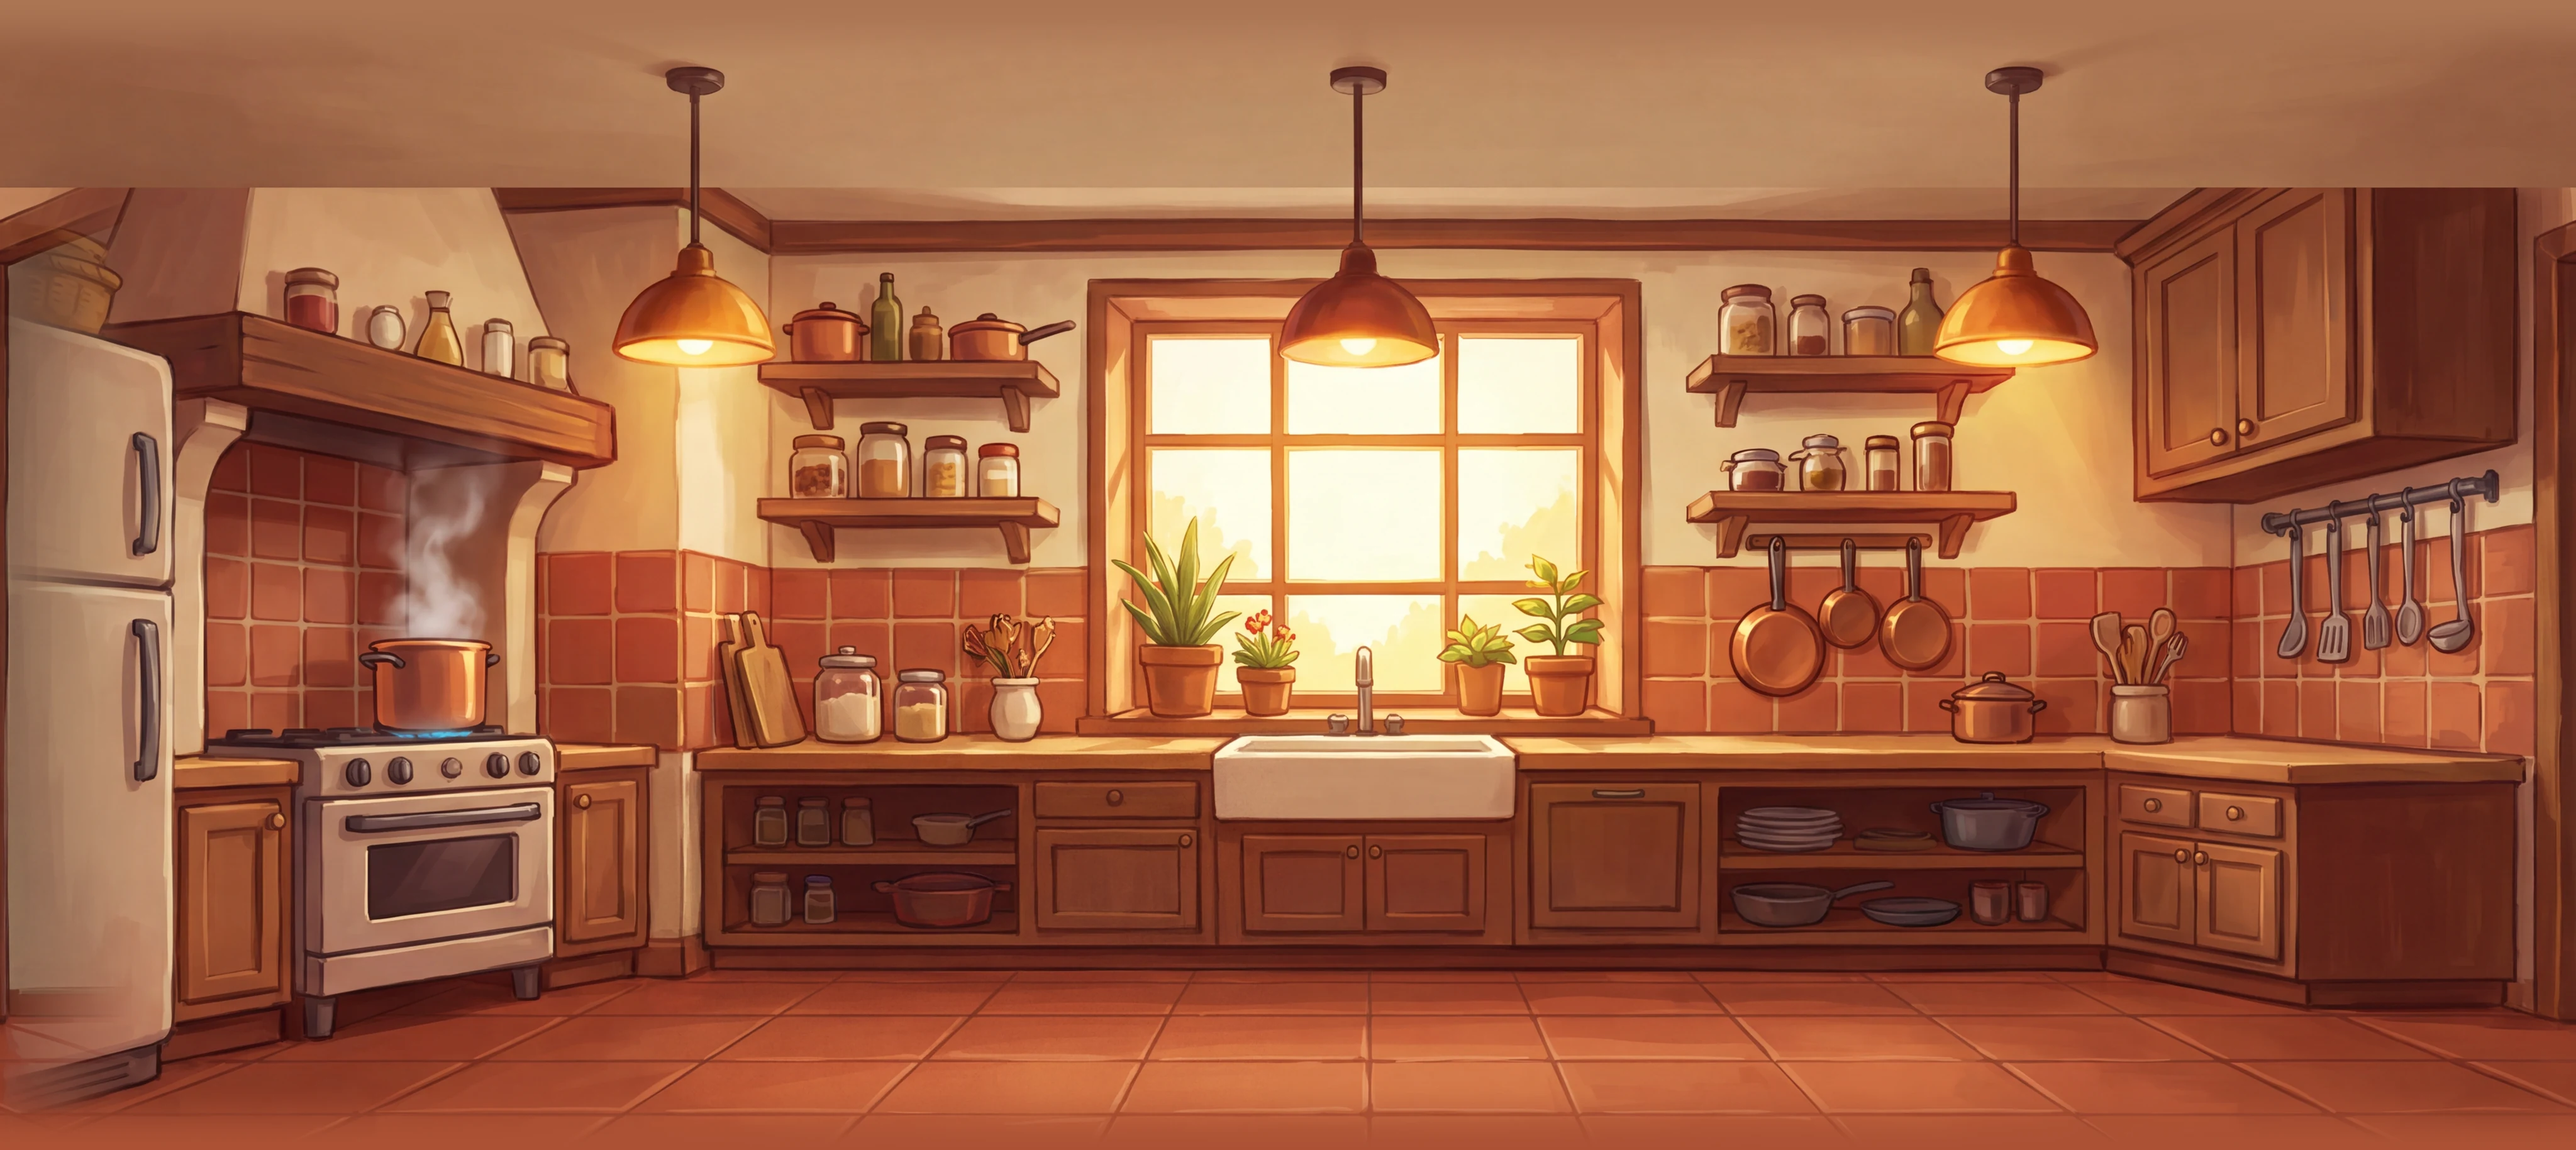
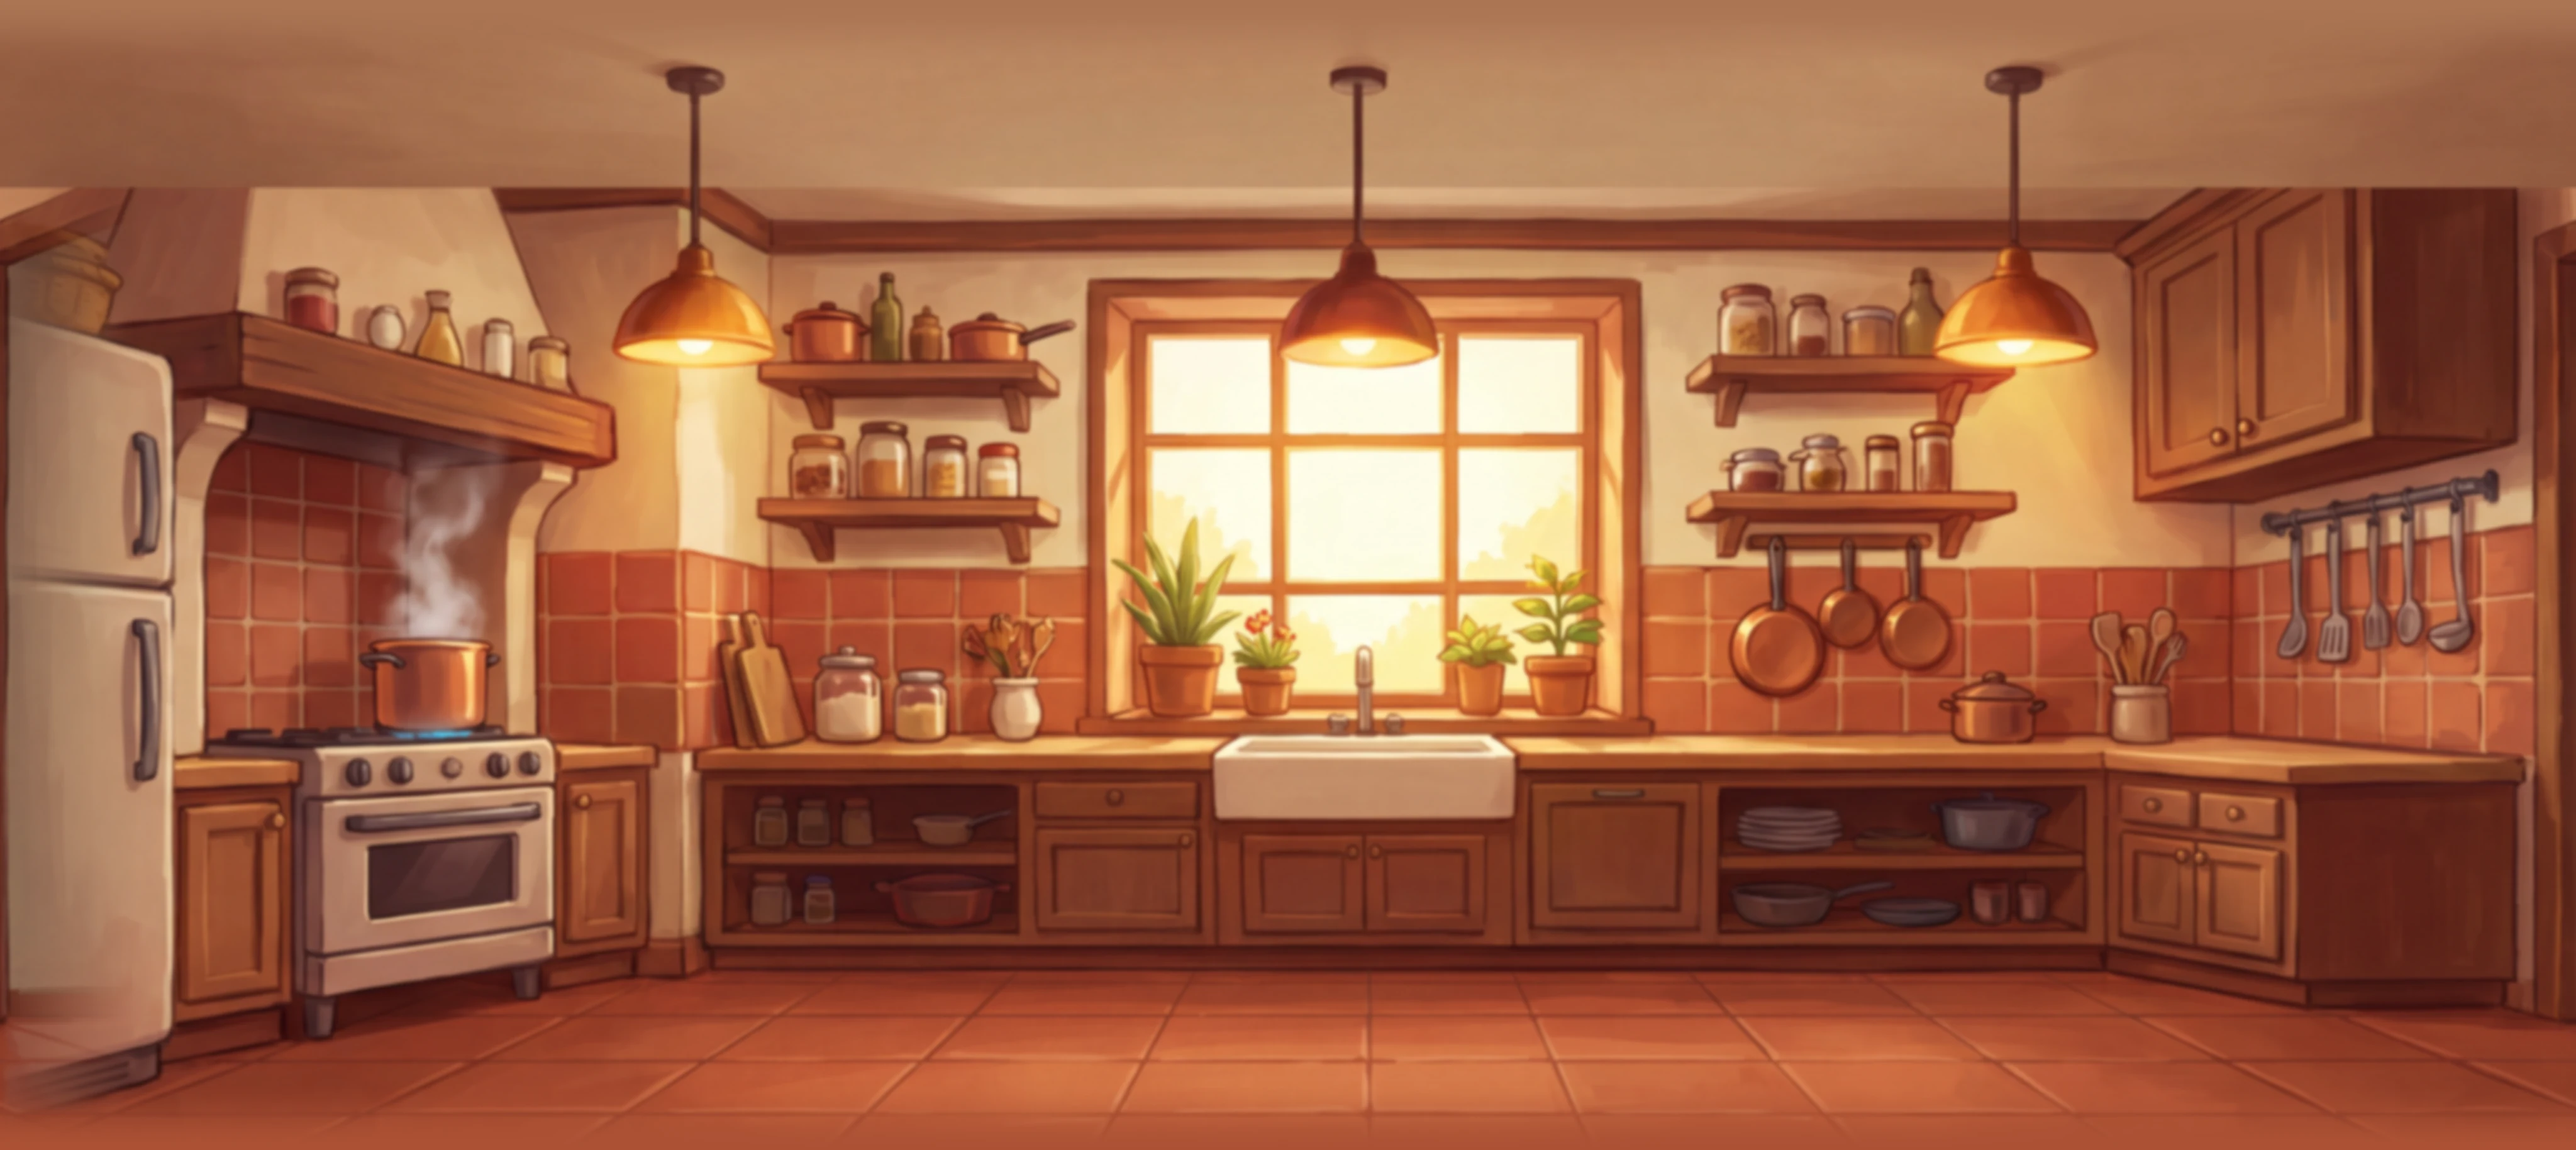
Lot LSKY : brume du brouillard mêlée à la peinture, flou de profondeur sur la cuisine, flotte 3D du galion retirée (peinte), nuages 3D de l'archipel retirés, éclairs reportés sur le panorama

diff --git a/src/scene/maps/sky.ts b/src/scene/maps/sky.ts
@@ -16,8 +16,14 @@ interface PanoramaTokens {
   image: string; rotation: number; intensite: number; repetitions: number;
   horizon: number; haut: string; bas: string; // horizon : fraction de la hauteur de l'image, depuis le haut
   chroma: number; // saturation visée À L'ÉCRAN (1 = celle de la peinture), après l'étalonnage de postfx
+  brume: number;  // part de la couleur du brouillard mêlée à la peinture : le fond et la 3D lointaine se fondent
 }
-type MapSkyTokens = { panorama?: PanoramaTokens; decor?: { saturation?: number } };
+type MapSkyTokens = {
+  panorama?: PanoramaTokens; decor?: { saturation?: number }; brouillard?: { couleur: string };
+  eclair?: { fond: string; facteur: number };
+};
+/** Plafond du flash d'éclair sur le panorama (au-delà, le bloom lave l'image). */
+const ECLAIR_MAX = 1.8;
 
 /** Rayon du cylindre (m) : loin devant l'arène (parallaxe faible), dans le plan lointain de la caméra (400). */
 const RAYON = 300;
@@ -32,13 +38,16 @@ function tokens(mapId: MapId): MapSkyTokens | undefined {
 
 /** L'étalonnage final (postfx) désature toute l'image de `decor.saturation` : la peinture est compensée ici
  *  (même formule inversée, luminance conservée) pour arriver à `chroma` à l'écran. */
-function compenser(mat: THREE.MeshBasicMaterial, sat: number): void {
+function compenser(mat: THREE.MeshBasicMaterial, sat: number, brume: THREE.Color, part: number): void {
   mat.onBeforeCompile = (shader) => {
     shader.uniforms.uSkySat = { value: sat };
+    shader.uniforms.uBrume = { value: brume };
+    shader.uniforms.uPart = { value: part };
     shader.fragmentShader = shader.fragmentShader
-      .replace('#include <common>', '#include <common>\nuniform float uSkySat;')
+      .replace('#include <common>', '#include <common>\nuniform float uSkySat;\nuniform vec3 uBrume;\nuniform float uPart;')
       .replace('#include <map_fragment>', `#include <map_fragment>
-  diffuseColor.rgb = max(mix(vec3(dot(diffuseColor.rgb, vec3(0.299, 0.587, 0.114))), diffuseColor.rgb, uSkySat), 0.0);`);
+  diffuseColor.rgb = max(mix(vec3(dot(diffuseColor.rgb, vec3(0.299, 0.587, 0.114))), diffuseColor.rgb, uSkySat), 0.0);
+  diffuseColor.rgb = mix(diffuseColor.rgb, uBrume, uPart);`);
   };
 }
 
@@ -65,7 +74,8 @@ export function applySky(scene: THREE.Scene, mapId: MapId): void {
     const h = (2 * Math.PI * RAYON / p.repetitions) * (img.height / img.width);
     const geo = new THREE.CylinderGeometry(RAYON, RAYON, h, 96, 1, false);
     const mats = [fondMat(0xffffff, tex), fondMat(p.haut), fondMat(p.bas)];
-    for (const m of mats) compenser(m, sat);
+    const brume = new THREE.Color(t?.brouillard?.couleur ?? '#ffffff');
+    for (const m of mats) compenser(m, sat, brume, p.brume);
     base = p.intensite;
     for (const m of mats) m.color.multiplyScalar(base);
     mats[0].userData.teinte = 0xffffff;
@@ -79,6 +89,15 @@ export function applySky(scene: THREE.Scene, mapId: MapId): void {
     root.renderOrder = -1000;
     root.frustumCulled = false;
     root.raycast = () => {};
+    // Éclairs (galion) : render/environment.ts passe le fond à `eclair.fond` pendant le flash ; le fond étant
+    // caché par le panorama, on reporte ce flash sur la peinture elle-même.
+    const eclair = t?.eclair ? new THREE.Color(t.eclair.fond) : null;
+    const flash = Math.min(ECLAIR_MAX, t?.eclair?.facteur ?? 1);
+    let actif = 1;
+    root.onBeforeRender = (_r, sc) => {
+      const f = eclair && sc.background instanceof THREE.Color && sc.background.equals(eclair) ? flash : 1;
+      if (f !== actif) { actif = f; setSkyFlash(f); }
+    };
     excludeFromOcclusion(root);
     scene.add(root);
   });

diff --git a/src/art/tokens.js b/src/art/tokens.js
@@ -113,9 +113,9 @@ export const maps = {
     ciel: { haut: '#C98B6E', horizon: '#E2AE88', bas: '#B8806A' }, // le vide fonce vers le bas
     // LSKY : panorama peint (public/assets/sky, tools/sky) sur un cylindre ; repetitions = copies sur un tour,
     // horizon = fraction de l'image posée à hauteur d'arène (sous l'horizon peint : la vue plonge sur l'arène), haut/bas = bouchons, rotation en rad (axe vertical),
-    // chroma = saturation à l'écran malgré decor.saturation (étalonnage global de postfx).
-    panorama: { image: '/assets/sky/archipel.webp', rotation: 0, intensite: 1.1, chroma: 0.9, repetitions: 3, horizon: 0.47, haut: '#6CA1A8', bas: '#F6B275' },
-    brouillard: { couleur: '#D8AC8C', debut: 45, fin: 190 }, // léger, couleur de la mer de nuages à l'horizon
+    // chroma = saturation à l'écran malgré decor.saturation (étalonnage global de postfx), brume = part du brouillard.
+    panorama: { image: '/assets/sky/archipel.webp', rotation: 0, intensite: 1.1, chroma: 0.9, brume: 0.12, repetitions: 3, horizon: 0.47, haut: '#6CA1A8', bas: '#F6B275' },
+    brouillard: { couleur: '#D8AC8C', debut: 25, fin: 160 }, // léger, couleur de la mer de nuages à l'horizon
     hemi: { ciel: '#E3E2DC', sol: '#6A5A50', intensite: 0.85 },
     principale: { type: 'directionnelle', couleur: '#FFF3E2', intensite: 2.3, position: [-14, 7.5, 3] }, // soleil rasant, 28°
     pratique: { couleur: '#FF9A4A', intensite: 6, portee: 9, decroissance: 1.6, vacillement: 0.08 },
@@ -131,8 +131,8 @@ export const maps = {
       lumiere: '#FFB45A', // lanternes : seule source chaude, a droit au bloom
     },
     ciel: { haut: '#2B3532', horizon: '#3C4A45', bas: '#2E4642' },
-    panorama: { image: '/assets/sky/galion.webp', rotation: 0, intensite: 1.1, chroma: 0.9, repetitions: 2, horizon: 0.54, haut: '#405A60', bas: '#192A39' },
-    brouillard: { couleur: '#58889A', debut: 25, fin: 120 }, // la mer 3D se fond dans la mer peinte à l'horizon
+    panorama: { image: '/assets/sky/galion.webp', rotation: 0, intensite: 1.1, chroma: 0.9, brume: 0.12, repetitions: 2, horizon: 0.54, haut: '#405A60', bas: '#192A39' },
+    brouillard: { couleur: '#4F7D8C', debut: 30, fin: 150 }, // la mer 3D se fond dans la mer peinte à l'horizon
     hemi: { ciel: '#9DB0AA', sol: '#5A4535', intensite: 0.9 },
     principale: { type: 'directionnelle', couleur: '#E6EDF2', intensite: 2.8, position: [-5, 12, 4] }, // lumière d'orage haute, 62°
     pratique: { couleur: '#FFB45A', intensite: 5, portee: 10, decroissance: 1.6, vacillement: 0.08 }, // lanterne du grand mât
@@ -150,7 +150,7 @@ export const maps = {
       lumiere: '#FF8A3D', // résistances du grille-pain armé : seule source chaude, a droit au bloom
     },
     ciel: { haut: '#4A4440', horizon: '#5A524D', bas: '#3F3A37' }, // plafond, murs, carrelage loin en bas
-    panorama: { image: '/assets/sky/cuisine.webp', rotation: 0, intensite: 0.95, chroma: 0.9, repetitions: 2, horizon: 0.55, haut: '#AA7553', bas: '#AC5134' },
+    panorama: { image: '/assets/sky/cuisine.webp', rotation: 0, intensite: 0.95, chroma: 0.9, brume: 0.12, repetitions: 2, horizon: 0.55, haut: '#AA7553', bas: '#AC5134' },
     brouillard: { couleur: '#B3764E', debut: 45, fin: 190 }, // léger, carrelage et plan de travail peints
     hemi: { ciel: '#D5DDE3', sol: '#7E6A55', intensite: 0.8 },
     // soleil de fenêtre en spot : la flaque de lumière est le ring (decroissance 0 = pas d'atténuation)

diff --git a/src/scene/maps/tokens.ts b/src/scene/maps/tokens.ts
@@ -20,7 +20,7 @@ export interface MapDecorGrade { saturation: number; teinte: string }
 export interface ArchipelTokens {
   palette: MapPalette;
   ciel: { haut: string; horizon: string; bas: string };
-  panorama: { image: string; rotation: number; intensite: number; repetitions: number; horizon: number; haut: string; bas: string; chroma: number }; // LSKY
+  panorama: { image: string; rotation: number; intensite: number; repetitions: number; horizon: number; haut: string; bas: string; chroma: number; brume: number }; // LSKY
   brouillard: { couleur: string; debut: number; fin: number };
   hemi: { ciel: string; sol: string; intensite: number };
   principale: MapLightDirectional;
@@ -31,7 +31,7 @@ export interface ArchipelTokens {
 export interface GalionTokens {
   palette: MapPalette;
   ciel: { haut: string; horizon: string; bas: string };
-  panorama: { image: string; rotation: number; intensite: number; repetitions: number; horizon: number; haut: string; bas: string; chroma: number }; // LSKY
+  panorama: { image: string; rotation: number; intensite: number; repetitions: number; horizon: number; haut: string; bas: string; chroma: number; brume: number }; // LSKY
   brouillard: { couleur: string; debut: number; fin: number };
   hemi: { ciel: string; sol: string; intensite: number };
   principale: MapLightDirectional;
@@ -44,7 +44,7 @@ export interface GalionTokens {
 export interface CuisineTokens {
   palette: MapPalette;
   ciel: { haut: string; horizon: string; bas: string };
-  panorama: { image: string; rotation: number; intensite: number; repetitions: number; horizon: number; haut: string; bas: string; chroma: number }; // LSKY
+  panorama: { image: string; rotation: number; intensite: number; repetitions: number; horizon: number; haut: string; bas: string; chroma: number; brume: number }; // LSKY
   brouillard: { couleur: string; debut: number; fin: number };
   hemi: { ciel: string; sol: string; intensite: number };
   principale: MapLightSpot;

diff --git a/src/scene/maps/dressing.ts b/src/scene/maps/dressing.ts
@@ -59,20 +59,10 @@ function archipel(): BackdropSpec[] {
 }
 
 // ---------------------------------------------------------------------------------------------------------
-// Galion : une bataille navale dans la tempête. Flotte ennemie au large, épave, îlots à palmiers, phare
-// sur un rocher, barques à la dérive : l'horizon raconte « Pirate Ship ».
+// Galion : la bataille navale (flotte, phare, éclairs) est peinte dans le panorama (LSKY).
 // ---------------------------------------------------------------------------------------------------------
-const PIR = '/assets/packs/pirate';
-const SEA = -3.2; // SEA_Y de galion.ts
-
 function galion(): BackdropSpec[] {
-  const w = SEA - 0.6; // les coques s'enfoncent un peu dans la houle
-  return [
-    // LSKY : la flotte et le phare sont peints dans le panorama ; restent 2 navires et l'épave (mi-distance).
-    model(`${PIR}/ship-pirate-large.glb`, [[30, w, -36, 1.9, -0.5]]),
-    model(`${PIR}/ship-pirate-medium.glb`, [[-44, w, -16, 1.6, 1.1]]),
-    model(`${PIR}/ship-wreck.glb`, [[-36, SEA - 1.2, 22, 1.6, 2.2]]),
-  ];
+  return []; // LSKY : la flotte est peinte dans le panorama ; la houle 3D du moteur donne la parallaxe
 }
 
 // ---------------------------------------------------------------------------------------------------------

diff --git a/src/scene/maps/galion.ts b/src/scene/maps/galion.ts
@@ -71,14 +71,11 @@ function couverts(): PropSpec[] {
 }
 
 // ---------------------------------------------------------------------------
-// Fond (LSKY) : le panorama peint (sky.ts) porte la tempête, la flotte et le phare. Ici, seulement la
-// parallaxe de mi-distance (≥ 22 m du centre) : un navire fantôme et deux récifs.
+// Fond (LSKY) : le panorama peint (sky.ts) porte la tempête, la flotte et le phare ; la houle 3D du moteur
+// (buildSea) donne la parallaxe.
 // ---------------------------------------------------------------------------
 function fond(): BackdropSpec[] {
-  return [
-    { build: { kind: 'model', url: PIRATE.shipGhost, hide: ['sail-a', 'sail-b'] }, items: [{ pos: [-38, SEA_Y - 1.5, -42], yaw: 0.5, scale: 1.9 }] },
-    { build: { kind: 'model', url: PIRATE.rocks }, items: [{ pos: [-26, SEA_Y - 1, -24], scale: 2.4 }, { pos: [30, SEA_Y - 1, -20], yaw: 2, scale: 2 }] },
-  ];
+  return []; // LSKY : flotte, récifs et phare sont peints (les modèles 3D lointains faisaient « primitives »)
 }
 
 export function buildGalionDef(): MapDef {

diff --git a/tools/sky/finish-pano.py b/tools/sky/finish-pano.py
@@ -4,7 +4,8 @@
 #  3. redimensionne à LARGEUR px et écrit public/assets/sky/<map>.webp ;
 #  4. affiche les couleurs `haut` / `bas` à reporter dans tokens.js maps.<map>.panorama, et la couleur de
 #     l'horizon (fraction donnée) pour maps.<map>.brouillard.couleur.
-# Usage : python tools/sky/finish-pano.py captures/sky-raw/galion-1.png galion 0.556 [qualité]
+# Usage : python tools/sky/finish-pano.py captures/sky-raw/galion-1.png galion 0.556 [qualité] [flou px]
+#  flou : profondeur de champ légère (le décor peint se lit « derrière » la 3D nette), raccord de couture conservé.
 import os
 import sys
 import numpy as np
@@ -12,6 +13,7 @@ from PIL import Image
 
 src, carte, horizon = sys.argv[1], sys.argv[2], float(sys.argv[3])
 QUALITE = int(sys.argv[4]) if len(sys.argv) > 4 else 88
+FLOU = float(sys.argv[5]) if len(sys.argv) > 5 else 0
 BANDE = 0.05   # largeur du fondu de couture (fraction de la largeur)
 POLE = 0.06    # hauteur des bords haut/bas fondus (fraction de la hauteur)
 LARGEUR = 4096
@@ -23,6 +25,12 @@ debut = im[:, :b] * t + im[:, -b:] * (1 - t)
 im = np.concatenate([debut, im[:, b:-b]], axis=1)
 H = round(LARGEUR * im.shape[0] / im.shape[1])
 im = np.asarray(Image.fromarray(np.clip(im, 0, 255).astype(np.uint8)).resize((LARGEUR, H), Image.LANCZOS)).astype(np.float32)
+if FLOU > 0:  # flou gaussien sur une image prolongée des deux côtés (elle boucle) : pas de couture
+    from PIL import ImageFilter
+    m = int(FLOU * 4) + 1
+    ext = np.concatenate([im[:, -m:], im, im[:, :m]], axis=1)
+    ext = np.asarray(Image.fromarray(np.clip(ext, 0, 255).astype(np.uint8)).filter(ImageFilter.GaussianBlur(FLOU))).astype(np.float32)
+    im = ext[:, m:-m]
 
 p = int(H * POLE)
 couleurs = {}
